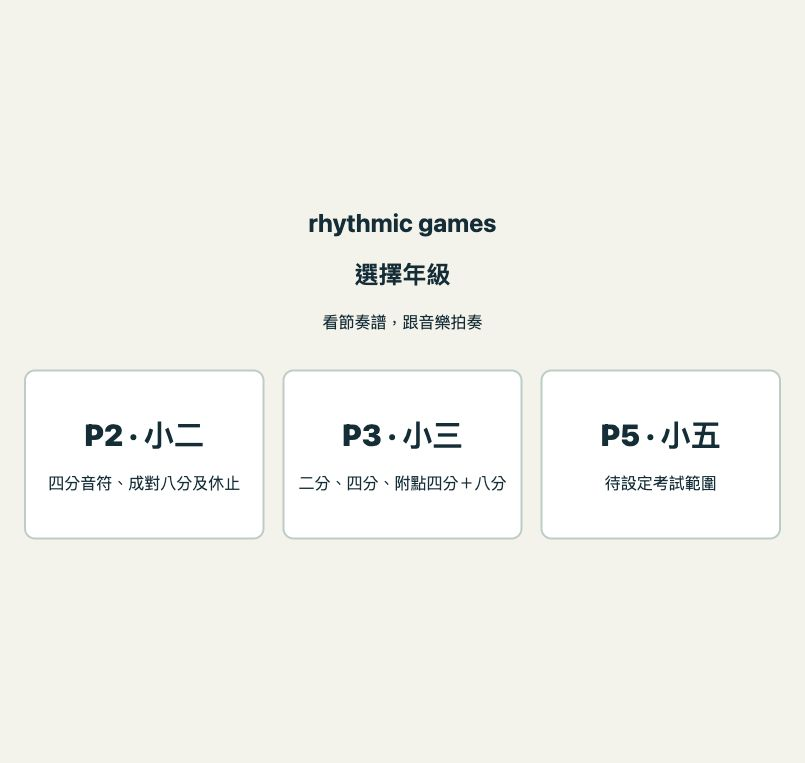
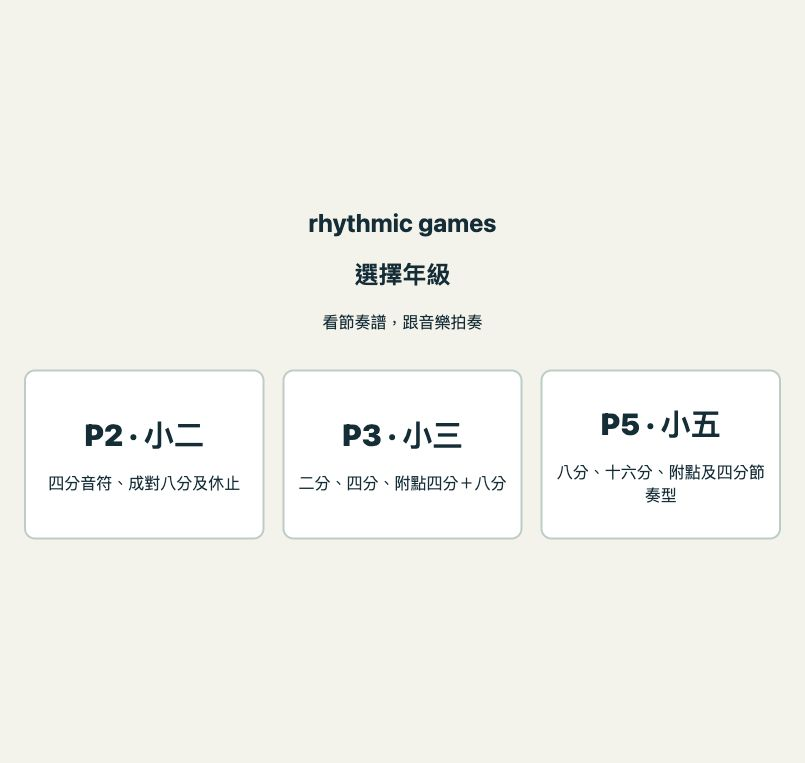
Add P5 exam rhythm groups and six progressive exercises
Enable P5 with quarter notes, paired eighths, eighth plus two sixteenths, dotted eighth plus sixteenth, and four sixteenths. Preserve P2/P3 and shared music settings. Add exact onset/duration and grade-switch tests and updated previews.

Changed region(s): [[0.6832, 0.5426, 0.9627, 0.6632]]

diff --git a/index.html b/index.html
@@ -2,10 +2,8 @@
 <html lang="zh-Hant"><meta charset="utf-8"><meta name="viewport" content="width=device-width,initial-scale=1"><title>rhythmic games · 節奏拍奏</title>
 <style>
 [hidden]{display:none!important}.grade-home{min-height:100dvh;max-width:1050px;margin:auto;padding:40px 24px;display:flex;flex-direction:column;align-items:center;justify-content:center;gap:20px}.grade-home h2,.grade-home p{margin:0}.grade-choices{display:grid;grid-template-columns:repeat(3,1fr);gap:18px;width:100%;margin:16px 0}.grade-choices button{min-height:170px;text-align:center;display:flex;flex-direction:column;align-items:center;justify-content:center;gap:16px}.grade-choices strong{font-size:30px}.grade-choices span{font-size:16px;font-weight:400}#gradePending{text-align:center}#changeGrade{font-size:14px;padding:6px 10px}.cell.wide{grid-column:span 2}.duration{position:absolute;bottom:6px;font-size:14px;color:#52646a}.cell.wide.active::after{bottom:5px;left:12px}.cell.wide .pair-symbol{max-height:150px;max-width:95%;width:95%}@media(max-width:600px){.grade-choices{grid-template-columns:1fr;gap:10px}.grade-choices button{min-height:100px}.grade-home{padding:20px}.grade-choices strong{font-size:26px}header{gap:10px}header small{display:block!important;font-size:12px}#changeGrade{font-size:12px;padding:5px}}:root{font-family:system-ui,-apple-system,sans-serif;color:#152d37;background:#f4f3eb}*{box-sizing:border-box}body{margin:0}main{max-width:1120px;margin:auto;padding:18px;height:100dvh;display:flex;flex-direction:column;gap:12px}header{display:flex;justify-content:space-between;align-items:center}h1{margin:0;font-size:28px}small,footer{font-size:14px;color:#50646c}button,select,input{font:inherit}button,select{border:2px solid #bdcdc7;border-radius:11px;padding:10px 15px;color:inherit;background:white}button{cursor:pointer;font-weight:700}button:disabled,input:disabled,select:disabled{opacity:.45;cursor:default}button:focus-visible,input:focus-visible,select:focus-visible,summary:focus-visible{outline:4px solid #e6a43d;outline-offset:2px}.controls{display:flex;align-items:center;gap:10px;flex-wrap:wrap}label{display:flex;align-items:center;gap:7px}#status{font-size:30px;font-weight:800;text-align:center;margin:0}#instruction{text-align:center;margin:0;font-size:17px}#score{flex:1;min-height:240px;display:grid;grid-template-columns:repeat(4,minmax(0,1fr));grid-template-rows:repeat(2,minmax(0,1fr));gap:14px;max-height:490px}.cell{background:white;border:4px solid #1c3036;border-radius:22px;display:flex;align-items:center;justify-content:center;position:relative;min-height:0}.cell svg{height:78%;width:90%;max-height:150px;color:#10191d}.cell.active{background:#fff0b9;border-color:#bb760b;box-shadow:0 0 0 3px #edc467}.cell.active::after{content:'●';position:absolute;bottom:3px;font-size:16px;color:#9a6006}.actions{justify-content:center}.primary{background:#176970;color:white;border-color:#176970}.settings{background:#fff;border:1px solid #d3dfd8;border-radius:12px;padding:10px 14px}.settings summary{cursor:pointer;font-weight:650}.settings[open]{max-height:34vh;overflow:auto}.settings .controls{margin-top:10px}.settings input[type=number]{width:100px;padding:7px;border:1px solid #a6bbb2;border-radius:7px}.settings input[type=range]{width:120px}#custom[hidden],#builtin[hidden]{display:none}#file{max-width:290px}#fileInfo{font-size:14px;margin:8px 0;overflow-wrap:anywhere}#message{min-height:20px;margin:0;font-size:15px;color:#8c361f}footer{text-align:center;margin-top:auto}@media(max-height:820px){main{gap:8px;padding:12px}h1{font-size:25px}#status{font-size:26px}#score{gap:10px;min-height:210px}.cell{border-radius:18px}button,select{padding:8px 12px}}@media(max-width:600px){main{height:auto;min-height:100dvh;padding:10px}header small{display:none}h1{font-size:24px}.controls{gap:7px;font-size:14px}#score{height:300px;flex:none;gap:7px}.cell{border-width:3px;border-radius:14px}#status{font-size:25px}footer{font-size:12px}.settings[open]{max-height:none}}
-#status{border-radius:14px;padding:6px 10px;transition:background .15s}#status[data-phase=count]{background:#e3edf9;color:#14406b}#status[data-phase=guided]{background:#dff1e4;color:#165a2c}#status[data-phase=independent]{background:#fde7cf;color:#7a3a05}#status[data-phase=done]{background:#ecebe4}.keys{font-size:13px;color:#50646c;margin:4px 0 0}kbd{border:1px solid #a6bbb2;border-bottom-width:2px;border-radius:5px;padding:0 5px;font:inherit;background:#fff}#calibrate.tapping{background:#e6a43d;border-color:#bb760b;color:#1d1300}
-body.projector main{max-width:none;padding:2vh 2.5vw;gap:1.5vh}body.projector header small>*:not(#projector),body.projector #settings,body.projector footer,body.projector #message:empty,body.projector .controls:not(.actions){display:none!important}body.projector h1{font-size:2.2vh;opacity:.6}body.projector #status{font-size:clamp(28px,6vh,72px);padding:1vh 2vw}body.projector #instruction{font-size:clamp(18px,2.8vh,34px)}body.projector #score{max-height:none;gap:2vh}body.projector .cell{border-width:6px;border-color:#000}body.projector .cell svg{max-height:none;color:#000}body.projector .cell.active{background:#ffd84a;border-color:#8a4b00;box-shadow:0 0 0 8px #8a4b00}body.projector .actions button{font-size:clamp(16px,2.2vh,26px)}body.projector .duration{font-size:clamp(14px,2vh,24px);color:#000}
 </style>
-<section id="gradeHome" class="grade-home"><h1>rhythmic games</h1><h2>選擇年級</h2><p>看節奏譜，跟音樂拍奏</p><div class="grade-choices"><button id="chooseP2"><strong>P2 · 小二</strong><span>四分音符、成對八分及休止</span></button><button id="chooseP3"><strong>P3 · 小三</strong><span>二分、四分、附點四分＋八分</span></button><button id="chooseP5"><strong>P5 · 小五</strong><span>八分、十六分、附點八分＋十六分</span></button></div><div id="gradePending" hidden role="status"><p>P5 題庫待設定，請提供考試節奏範圍。</p><button id="backHome">返回年級選擇</button></div></section><main id="game" hidden><header><h1>rhythmic games</h1><small><span id="gradeLabel">音樂讀譜拍奏</span> <button id="projector" aria-pressed="false" title="全螢幕投影模式（F）">投影模式</button> <button id="changeGrade">更換年級</button></small></header>
+<section id="gradeHome" class="grade-home"><h1>rhythmic games</h1><h2>選擇年級</h2><p>看節奏譜，跟音樂拍奏</p><div class="grade-choices"><button id="chooseP2"><strong>P2 · 小二</strong><span>四分音符、成對八分及休止</span></button><button id="chooseP3"><strong>P3 · 小三</strong><span>二分、四分、附點四分＋八分</span></button><button id="chooseP5"><strong>P5 · 小五</strong><span>八分、十六分、附點及四分節奏型</span></button></div><div id="gradePending" hidden role="status"><p>P5 題庫待設定，請提供考試節奏範圍。</p><button id="backHome">返回年級選擇</button></div></section><main id="game" hidden><header><h1>rhythmic games</h1><small><span id="gradeLabel">音樂讀譜拍奏</span> <button id="changeGrade">更換年級</button></small></header>
 <div class="controls"><label>題目 <select id="question"></select></label><label>音樂 <select id="source"><option value="builtin">內建伴奏</option><option value="custom">自選音樂</option></select></label><span id="tempo">80 BPM</span></div>
 <p id="status" role="status" tabindex="-1">先看譜，準備好才開始</p><p id="instruction">先跟着拍一次，再跟音樂自己拍一次。</p>
 <div id="score" aria-label="八拍節奏譜，先讀上行四拍，再讀下行四拍"></div>
@@ -13,29 +11,27 @@ body.projector main{max-width:none;padding:2vh 2.5vw;gap:1.5vh}body.projector he
 <details id="settings" class="settings"><summary>教師音樂設定</summary>
 <div id="builtin" class="controls"><label>伴奏速度 <select id="builtinBpm"><option>60</option><option selected>80</option><option>100</option></select></label></div>
 <div id="custom" hidden><div class="controls"><label>音樂檔 <input id="file" type="file" accept=".mp3,.m4a,.wav,audio/*"></label><label>BPM <input id="customBpm" type="number" min="40" max="160" step="0.1" placeholder="40–160"></label><label>第一拍（秒） <input id="offset" type="number" min="0" step="0.01" placeholder="例如 0.35"></label><button id="preview">對拍試聽・8拍</button></div><p id="fileInfo">載入速度穩定的音樂，再設定 BPM 和第一拍位置。</p><small>試聽時調整拍子聲與音樂是否吻合；正式練習需要第一拍之後至少十六拍音樂。檔案只在本機處理。</small></div>
-<div class="controls"><label>伴奏音量 <input id="musicVolume" type="range" min="0" max="100" value="45"><output id="musicValue">45%</output></label><label>示範音量 <input id="demoVolume" type="range" min="0" max="100" value="65"><output id="demoValue">65%</output></label></div>
-<div class="controls"><label>聲畫延遲 <input id="latency" type="range" min="0" max="400" step="5" value="0"><output id="latencyValue">0 ms</output></label><button id="calibrate">拍手校正</button></div><small id="calibInfo">用投影喇叭或藍牙時，亮格可能比聲音早。按「拍手校正」後，聽到拍子聲就按空白鍵或此按鈕，共 12 下；結果只保存在此裝置。</small></details>
-<p id="message" role="alert"></p><p class="keys"><kbd>空白鍵</kbd> 開始／停止 · <kbd>→</kbd><kbd>PgDn</kbd> 下一題 · <kbd>←</kbd><kbd>PgUp</kbd> 上一題 · <kbd>R</kbd> 再練一次 · <kbd>F</kbd> 投影模式（簡報筆可用）</p><footer>原創複習練習 · 休止保留一拍 · 由教師觀察拍奏表現，不自動評分。</footer></main>
+<div class="controls"><label>伴奏音量 <input id="musicVolume" type="range" min="0" max="100" value="45"><output id="musicValue">45%</output></label><label>示範音量 <input id="demoVolume" type="range" min="0" max="100" value="65"><output id="demoValue">65%</output></label></div></details>
+<p id="message" role="alert"></p><footer>原創複習練習 · 休止保留一拍 · 由教師觀察拍奏表現，不自動評分。</footer></main>
 <script>
 'use strict';
 const $=id=>document.getElementById(id);
 const PATTERNS=[['ta','ta','ta','ta','ta','ta','ta','ta'],['ta','rest','ta','rest','ta','rest','ta','rest'],['ta','ti','ta','ti','ta','ti','ta','ti'],['ti','ta','ti','ta','ti','ta','ti','ta'],['ta','ti','ta','rest','ta','ti','ta','rest'],['ti','ta','rest','ti','ta','rest','ti','ta']].map((cells,i)=>({id:i+1,cells,beats:8,events:cells.flatMap((kind,b)=>kind==='ti'?[{startBeat:b,durationBeats:.5,kind:'note'},{startBeat:b+.5,durationBeats:.5,kind:'note'}]:[{startBeat:b,durationBeats:1,kind:kind==='rest'?'rest':'note'}])}));
-function makePattern(cells,id){let offset=0;const segments=cells.map(kind=>{const span=kind==='half'||kind==='dottedPair'?2:1,segment={kind,startBeat:offset,durationBeats:span};offset+=span;return segment});return {id,cells,beats:offset,segments,events:segments.flatMap(s=>{const on=ONSETS[s.kind];return on?on.map((o,i)=>({startBeat:s.startBeat+o,durationBeats:(on[i+1]??s.durationBeats)-o,kind:'note'})):[{startBeat:s.startBeat,durationBeats:s.durationBeats,kind:s.kind==='rest'?'rest':'note'}]})}}
-const ONSETS={ti:[0,.5],dottedPair:[0,1.5],titiri:[0,.5,.75],tim:[0,.75],tiri:[0,.25,.5,.75]};
+function makePattern(cells,id){let offset=0;const segments=cells.map(kind=>{const span=kind==='half'||kind==='dottedPair'?2:1,segment={kind,startBeat:offset,durationBeats:span};offset+=span;return segment});return {id,cells,beats:offset,segments,events:segments.flatMap(s=>s.kind==='eighthSixteenths'?[{startBeat:s.startBeat,durationBeats:.5,kind:'note'},{startBeat:s.startBeat+.5,durationBeats:.25,kind:'note'},{startBeat:s.startBeat+.75,durationBeats:.25,kind:'note'}]:s.kind==='dottedEighth'?[{startBeat:s.startBeat,durationBeats:.75,kind:'note'},{startBeat:s.startBeat+.75,durationBeats:.25,kind:'note'}]:s.kind==='fourSixteenths'?[0,.25,.5,.75].map(b=>({startBeat:s.startBeat+b,durationBeats:.25,kind:'note'})):s.kind==='dottedPair'?[{startBeat:s.startBeat,durationBeats:1.5,kind:'note'},{startBeat:s.startBeat+1.5,durationBeats:.5,kind:'note'}]:s.kind==='ti'?[{startBeat:s.startBeat,durationBeats:.5,kind:'note'},{startBeat:s.startBeat+.5,durationBeats:.5,kind:'note'}]:[{startBeat:s.startBeat,durationBeats:s.durationBeats,kind:s.kind==='rest'?'rest':'note'}])}}
 const P2=PATTERNS.map(p=>makePattern(p.cells,p.id));
 const P3=[['half','half','half','half'],['ta','ta','half','ta','ta','half'],['dottedPair','half','dottedPair','half'],['ta','ta','dottedPair','half','ta','ta'],['half','dottedPair','ta','ta','dottedPair'],['dottedPair','dottedPair','half','dottedPair']].map((cells,i)=>makePattern(cells,i+1));
-const P5=[['ti','tiri','ti','ta','ti','tiri','ti','ta'],['ta','titiri','ta','titiri','ti','titiri','ta','ta'],['tim','ta','tim','ta','ti','tim','ti','ta'],['ti','titiri','tiri','ta','ti','titiri','tiri','ta'],['tiri','tim','titiri','ta','tiri','tim','ti','ta'],['titiri','tim','tiri','ti','tim','titiri','tiri','ta']].map((cells,i)=>makePattern(cells,i+1));
+const P5=[['ta','ti','ta','ti','ta','ti','ta','ti'],['eighthSixteenths','ta','eighthSixteenths','ta','eighthSixteenths','ta','eighthSixteenths','ta'],['dottedEighth','ta','dottedEighth','ta','dottedEighth','ta','dottedEighth','ta'],['fourSixteenths','ta','fourSixteenths','ta','fourSixteenths','ta','fourSixteenths','ta'],['eighthSixteenths','ti','dottedEighth','ta','eighthSixteenths','ti','dottedEighth','ta'],['eighthSixteenths','fourSixteenths','dottedEighth','ti','ta','dottedEighth','fourSixteenths','ta']].map((cells,i)=>makePattern(cells,i+1));
 const GRADES={P2:{label:'P2 · 小二',patterns:P2},P3:{label:'P3 · 小三',patterns:P3},P5:{label:'P5 · 小五',patterns:P5}};let grade=null;
 function library(){return grade?GRADES[grade].patterns:[]}
 function selectGrade(value){stop();grade=value;$('message').textContent='';const pending=library().length===0;$('gradeHome').hidden=!pending;$('game').hidden=pending;$('gradePending').hidden=!pending;document.querySelector('.grade-choices').hidden=pending;$('gradeLabel').textContent=GRADES[value].label;$('question').innerHTML='';library().forEach(p=>$('question').add(new Option(`第 ${p.id} 題`,p.id)));$('question').selectedIndex=0;if(!pending){render();$('status').textContent='先看譜，準備好才開始';$('status').focus()}updateTempo()}
 function goHome(){stop();grade=null;$('game').hidden=true;$('gradeHome').hidden=false;$('gradePending').hidden=true;document.querySelector('.grade-choices').hidden=false}
 let ctx,musicBus,demoBus,cueBus,noiseBuffer,audioBuffer=null,run=null,raf=0,serial=0,loadSerial=0,loading=false;const voices=new Set();
-function glyph(k){if(k==='half')return '<svg viewBox="0 0 110 90" aria-hidden="true"><ellipse cx="50" cy="61" rx="11" ry="8" transform="rotate(-18 50 61)" fill="white" stroke="currentColor" stroke-width="3"/><path d="M60 60V13" stroke="currentColor" stroke-width="4"/></svg>';if(k==='dottedPair')return '<svg class="pair-symbol" viewBox="0 0 220 90" fill="currentColor" aria-hidden="true"><ellipse cx="42" cy="61" rx="11" ry="8" transform="rotate(-18 42 61)"/><path d="M52 60V13" stroke="currentColor" stroke-width="4"/><circle cx="65" cy="59" r="4"/><ellipse cx="172" cy="61" rx="11" ry="8" transform="rotate(-18 172 61)"/><path d="M182 60V13" stroke="currentColor" stroke-width="4"/><path d="M182 13C180 26 208 25 192 49C201 29 180 31 182 13Z"/></svg>';const note=x=>`<ellipse cx="${x}" cy="61" rx="11" ry="8" transform="rotate(-18 ${x} 61)"/><path d="M${x+10} 60V13" stroke="currentColor" stroke-width="4"/>`;const beam=(a,b,y)=>`<path d="M${a} ${y}H${b}" stroke="currentColor" stroke-width="7"/>`;if(k==='titiri')return `<svg viewBox="0 0 110 90" aria-hidden="true" fill="currentColor">${note(22)+note(55)+note(88)+beam(31,99,13)+beam(64,99,25)}</svg>`;if(k==='tim')return `<svg viewBox="0 0 110 90" aria-hidden="true" fill="currentColor">${note(26)+note(80)+'<circle cx="43" cy="59" r="4"/>'+beam(35,91,13)+beam(76,91,25)}</svg>`;if(k==='tiri')return `<svg viewBox="0 0 110 90" aria-hidden="true" fill="currentColor">${note(14)+note(39)+note(64)+note(89)+beam(23,100,13)+beam(23,100,25)}</svg>`;return `<svg viewBox="0 0 110 90" aria-hidden="true" fill="currentColor">${k==='rest'?'<path d="M58 6L44 27L61 42L48 56Q73 52 55 79Q82 54 62 48L73 36L54 22L65 8Z"/>':k==='ti'?note(29)+note(73)+'<path d="M39 13H83" stroke="currentColor" stroke-width="7"/>':note(50)}</svg>`}
+function glyph(k){if(['eighthSixteenths','dottedEighth','fourSixteenths'].includes(k)){let xs=k==='fourSixteenths'?[15,40,65,90]:k==='eighthSixteenths'?[18,52,86]:[25,82],radius=k==='fourSixteenths'?7:9,stem=radius-1,heads=xs.map(x=>`<ellipse cx="${x}" cy="61" rx="${radius}" ry="6" transform="rotate(-18 ${x} 61)"/><path d="M${x+stem} 60V13" stroke="currentColor" stroke-width="3"/>`).join(''),secondaryStart=k==='fourSixteenths'?xs[0]+stem:k==='eighthSixteenths'?xs[1]+stem:xs[1]+stem-13;return `<svg viewBox="0 0 110 90" aria-hidden="true" fill="currentColor">${heads}<path d="M${xs[0]+stem} 13H${xs.at(-1)+stem}M${secondaryStart} 23H${xs.at(-1)+stem}" stroke="currentColor" stroke-width="5"/>${k==='dottedEighth'?'<circle cx="43" cy="59" r="3.5"/>':''}</svg>`}if(k==='half')return '<svg viewBox="0 0 110 90" aria-hidden="true"><ellipse cx="50" cy="61" rx="11" ry="8" transform="rotate(-18 50 61)" fill="white" stroke="currentColor" stroke-width="3"/><path d="M60 60V13" stroke="currentColor" stroke-width="4"/></svg>';if(k==='dottedPair')return '<svg class="pair-symbol" viewBox="0 0 220 90" fill="currentColor" aria-hidden="true"><ellipse cx="42" cy="61" rx="11" ry="8" transform="rotate(-18 42 61)"/><path d="M52 60V13" stroke="currentColor" stroke-width="4"/><circle cx="65" cy="59" r="4"/><ellipse cx="172" cy="61" rx="11" ry="8" transform="rotate(-18 172 61)"/><path d="M182 60V13" stroke="currentColor" stroke-width="4"/><path d="M182 13C180 26 208 25 192 49C201 29 180 31 182 13Z"/></svg>';const note=x=>`<ellipse cx="${x}" cy="61" rx="11" ry="8" transform="rotate(-18 ${x} 61)"/><path d="M${x+10} 60V13" stroke="currentColor" stroke-width="4"/>`;return `<svg viewBox="0 0 110 90" aria-hidden="true" fill="currentColor">${k==='rest'?'<path d="M58 6L44 27L61 42L48 56Q73 52 55 79Q82 54 62 48L73 36L54 22L65 8Z"/>':k==='ti'?note(29)+note(73)+'<path d="M39 13H83" stroke="currentColor" stroke-width="7"/>':note(50)}</svg>`}
 function pattern(){return library()[$('question').selectedIndex]}
-function render(){const p=pattern();$('score').innerHTML=p?p.segments.map(s=>`<div class="cell ${s.durationBeats===2?'wide':''}" aria-label="第 ${s.startBeat+1} 拍起：${({ta:'四分音符，一拍',ti:'兩個八分音符，共一拍',rest:'四分休止符，一拍',half:'二分音符，兩拍，只拍一次',dottedPair:'附點四分音符接八分音符，共兩拍',titiri:'八分音符接兩個十六分音符，共一拍',tim:'附點八分音符接十六分音符，共一拍',tiri:'四個十六分音符，共一拍'})[s.kind]}">${glyph(s.kind)}${s.durationBeats===2?`<span class="duration">${s.kind==='half'?'2 拍 · 只拍一下':'1½ 拍 ＋ ½ 拍'}</span>`:''}</div>`).join(''):''}
+function render(){const p=pattern();$('score').innerHTML=p?p.segments.map(s=>`<div class="cell ${s.durationBeats===2?'wide':''}" aria-label="第 ${s.startBeat+1} 拍起：${({ta:'四分音符，一拍',ti:'兩個八分音符，共一拍',rest:'四分休止符，一拍',half:'二分音符，兩拍，只拍一次',dottedPair:'附點四分音符接八分音符，共兩拍',eighthSixteenths:'一個八分接兩個十六分音符，共一拍',dottedEighth:'附點八分接十六分音符，共一拍',fourSixteenths:'四個十六分音符，共一拍'})[s.kind]}">${glyph(s.kind)}${s.durationBeats===2?`<span class="duration">${s.kind==='half'?'2 拍 · 只拍一下':'1½ 拍 ＋ ½ 拍'}</span>`:''}</div>`).join(''):''}
 function bpm(){return Number($('source').value==='builtin'?$('builtinBpm').value:$('customBpm').value)}
 function updateTempo(){const n=bpm();$('tempo').textContent=Number.isFinite(n)&&n>0?`${n} BPM`:'先設定速度'}
-function lock(v){for(const id of ['latency','calibrate','question','source','builtinBpm','customBpm','offset','file','musicVolume','demoVolume','start','repeat','next','preview'])$(id).disabled=v||loading;$('stop').disabled=!v}
+function lock(v){for(const id of ['question','source','builtinBpm','customBpm','offset','file','musicVolume','demoVolume','start','repeat','next','preview'])$(id).disabled=v||loading;$('stop').disabled=!v}
 async function audioReady(){if(!ctx){ctx=new(window.AudioContext||window.webkitAudioContext)();musicBus=ctx.createGain();demoBus=ctx.createGain();cueBus=ctx.createGain();for(const b of [musicBus,demoBus,cueBus])b.connect(ctx.destination);musicBus.gain.value=Number($('musicVolume').value)/100;demoBus.gain.value=Number($('demoVolume').value)/100;cueBus.gain.value=.32;noiseBuffer=ctx.createBuffer(1,Math.ceil(ctx.sampleRate*.12),ctx.sampleRate);let data=noiseBuffer.getChannelData(0);let seed=32;for(let i=0;i<data.length;i++){seed=(seed*16807)%2147483647;data[i]=seed/1073741824-1}ctx.onstatechange=()=>{if(run&&ctx.state!=='running')stop('音訊已中斷，按開始重新預備。')}}await ctx.resume();if(ctx.state!=='running')throw Error('聲音未能啟動，請再按開始。')}
 function track(node){voices.add(node);node.onended=()=>voices.delete(node);return node}
 function tone(at,hz,duration,amp,bus,type='sine',endHz=null){let o=track(ctx.createOscillator()),g=ctx.createGain();o.type=type;o.frequency.setValueAtTime(hz,at);if(endHz)o.frequency.exponentialRampToValueAtTime(endHz,at+Math.min(duration,.12));g.gain.setValueAtTime(.0001,at);g.gain.exponentialRampToValueAtTime(amp,at+.006);g.gain.exponentialRampToValueAtTime(.0001,at+duration);o.connect(g).connect(bus);o.start(at);o.stop(at+duration+.01)}
@@ -45,30 +41,10 @@ function timeline(p,spb,custom=false,preview=false){let events=[];if(!preview)fo
 if(!preview)p.events.filter(e=>e.kind==='note').forEach(e=>events.push({beat:4+e.startBeat,type:'demo'}));return events.map(e=>({...e,time:e.beat*spb,done:false})).sort((a,b)=>a.time-b.time)}
 function validate(custom,beats){let n=bpm();if(!Number.isFinite(n)||n<40||n>160)throw Error('請設定 40–160 之間的 BPM。');let offset=Number($('offset').value);if(custom){if(loading)throw Error('音樂仍在載入，請稍候。');if(!audioBuffer)throw Error('請先載入音樂檔。');if(!$('customBpm').value||!$('offset').value||!Number.isFinite(offset)||offset<0)throw Error('請設定 BPM 及第一拍時間（可填 0）。');if(audioBuffer.duration-offset+1e-7<beats*60/n)throw Error(`第一拍之後不足 ${beats} 拍音樂，請調整第一拍位置或更換檔案。`)}return {spb:60/n,offset}}
 function clearHighlight(){document.querySelectorAll('.cell').forEach(c=>c.classList.remove('active'))}
-function stop(message='已停止 · 按開始重新預備'){serial++;cancelAnimationFrame(raf);run=null;voices.forEach(n=>{try{n.stop()}catch{}});voices.clear();clearHighlight();lock(false);setPhase(message.startsWith('完成')?'done':'');$('status').textContent=message;$('instruction').textContent='先跟着拍一次，再跟音樂自己拍一次。'}
+function stop(message='已停止 · 按開始重新預備'){serial++;cancelAnimationFrame(raf);run=null;voices.forEach(n=>{try{n.stop()}catch{}});voices.clear();clearHighlight();lock(false);$('status').textContent=message;$('instruction').textContent='先跟着拍一次，再跟音樂自己拍一次。'}
 async function begin(preview=false){if(!pattern())return;stop();updateTempo();$('message').textContent='';const token=serial,custom=$('source').value==='custom';try{if(preview&&!custom)throw Error('對拍試聽只適用於自選音樂。');const cfg=validate(custom,preview?8:16);lock(true);await audioReady();if(token!==serial)return;const origin=ctx.currentTime+.15;run={pattern:pattern(),origin,spb:cfg.spb,preview,end:preview?8:20,events:timeline(pattern(),cfg.spb,custom,preview)};if(custom){let node=track(ctx.createBufferSource());node.buffer=audioBuffer;node.connect(musicBus);node.start(origin+(preview?0:4*cfg.spb),cfg.offset,(preview?8:16)*cfg.spb)}$('settings').open=false;frame()}catch(e){if(token!==serial)return;stop('尚未開始');$('message').textContent=e.message||'未能播放音樂，請重新載入。';$('settings').open=custom}}
 function phase(t,preview=false){t+=1e-7;return preview?'preview':t<0?'ready':t<4?'count':t<12?'guided':t<20?'independent':'done'}
-function frame(){if(!run)return;let r=run,t=(ctx.currentTime-r.origin-latency())/r.spb,now=ctx.currentTime;for(let e of r.events){if(e.done)continue;if(e.time<=now-r.origin+.12){e.done=true;if(e.time>=now-r.origin-.025)emit(e,Math.max(now,r.origin+e.time),r.spb)}}let state=phase(t,r.preview);setPhase(state);$('status').textContent=state==='preview'?'對拍試聽 · 聽拍子聲是否對齊音樂':state==='ready'?'準備':state==='count'?`預備拍 ${Math.floor(t)+1} / 4`:state==='guided'?'跟着拍 · 第一遍':'自己拍 · 第二遍';$('instruction').textContent=state==='independent'?'跟音樂看譜拍奏；休止也保留一拍。':state==='preview'?'若拍子未對齊，停止後調整 BPM 或第一拍位置。':(grade==='P5'?'先讀上行，再讀下行；每格一拍，十六分音符要快而平均。':grade==='P3'?'先讀上行，再讀下行；二分拍一下，附點組合先長後短。':'先讀上行，再讀下行；ti-ti 均分一拍。');document.querySelectorAll('.cell').forEach((c,i)=>c.classList.toggle('active',(state==='guided'||state==='independent')&&((t-4+1e-7)%8)>=r.pattern.segments[i].startBeat&&((t-4+1e-7)%8)<r.pattern.segments[i].startBeat+r.pattern.segments[i].durationBeats));if(t+1e-7>=r.end){stop(r.preview?'試聽完成 · 可調整對拍設定':'完成 · 再練一次或下一題');return}raf=requestAnimationFrame(frame)}
+function frame(){if(!run)return;let r=run,t=(ctx.currentTime-r.origin)/r.spb,now=ctx.currentTime;for(let e of r.events){if(e.done)continue;if(e.time<=now-r.origin+.12){e.done=true;if(e.time>=now-r.origin-.025)emit(e,Math.max(now,r.origin+e.time),r.spb)}}let state=phase(t,r.preview);$('status').textContent=state==='preview'?'對拍試聽 · 聽拍子聲是否對齊音樂':state==='ready'?'準備':state==='count'?`預備拍 ${Math.floor(t)+1} / 4`:state==='guided'?'跟着拍 · 第一遍':'自己拍 · 第二遍';$('instruction').textContent=state==='independent'?'跟音樂看譜拍奏；休止也保留一拍。':state==='preview'?'若拍子未對齊，停止後調整 BPM 或第一拍位置。':(grade==='P3'?'先讀上行，再讀下行；二分拍一下，附點組合先長後短。':grade==='P5'?'先讀上行，再讀下行；留意一拍內的長短和均分。':'先讀上行，再讀下行；ti-ti 均分一拍。');document.querySelectorAll('.cell').forEach((c,i)=>c.classList.toggle('active',(state==='guided'||state==='independent')&&((t-4+1e-7)%8)>=r.pattern.segments[i].startBeat&&((t-4+1e-7)%8)<r.pattern.segments[i].startBeat+r.pattern.segments[i].durationBeats));if(t+1e-7>=r.end){stop(r.preview?'試聽完成 · 可調整對拍設定':'完成 · 再練一次或下一題');return}raf=requestAnimationFrame(frame)}
 async function loadFile(){stop('正在載入音樂…');let id=++loadSerial,file=$('file').files[0];audioBuffer=null;$('customBpm').value='';$('offset').value='';updateTempo();$('message').textContent='';$('fileInfo').textContent='';if(!file){$('status').textContent='先看譜，準備好才開始';return}loading=true;lock(false);try{await audioReady();const bytes=await file.arrayBuffer();let buffer=await ctx.decodeAudioData(bytes);if(id!==loadSerial)return;audioBuffer=buffer;$('fileInfo').textContent=`${file.name} · ${buffer.duration.toFixed(2)} 秒；請重新設定 BPM 和第一拍位置。`;$('status').textContent='音樂已載入 · 請設定並試聽'}catch(e){if(id!==loadSerial)return;$('message').textContent='無法解碼這個音樂檔，請改用瀏覽器支援的 MP3、M4A 或 WAV。';$('status').textContent='音樂未能載入'}finally{if(id===loadSerial){loading=false;lock(false)}}}
 $('start').onclick=()=>begin();$('repeat').onclick=()=>begin();$('stop').onclick=()=>stop();$('preview').onclick=()=>begin(true);$('next').onclick=()=>{stop('先看譜，準備好才開始');$('question').selectedIndex=($('question').selectedIndex+1)%library().length;render()};$('question').onchange=()=>{stop('先看譜，準備好才開始');render()};$('source').onchange=()=>{stop('先看譜，準備好才開始');const custom=$('source').value==='custom';$('custom').hidden=!custom;$('builtin').hidden=custom;$('settings').open=custom;updateTempo()};$('file').onchange=loadFile;$('customBpm').oninput=updateTempo;for(let id of ['builtinBpm','customBpm','offset'])$(id).onchange=()=>{stop('設定已更新 · 按開始重新預備');updateTempo()};for(let [id,bus,label] of [['musicVolume',()=>musicBus,'musicValue'],['demoVolume',()=>demoBus,'demoValue']])$(id).oninput=()=>{$(label).textContent=$(id).value+'%';if(bus())bus().gain.value=Number($(id).value)/100};document.addEventListener('visibilitychange',()=>{if(document.hidden)stop('已停止 · 返回後按開始重新預備')});window.addEventListener('pagehide',()=>stop());for(const key of ['P2','P3','P5'])$('choose'+key).onclick=()=>selectGrade(key);$('changeGrade').onclick=goHome;$('backHome').onclick=goHome;updateTempo();
-function setPhase(v){const st=$('status');if(st.dataset)st.dataset.phase=v}
-const LATENCY_KEY='rhythmic-games.latencyMs';function latency(){return (Number($('latency').value)||0)/1000}
-function setLatency(ms,save=true){ms=Math.max(0,Math.min(400,Math.round(ms/5)*5));$('latency').value=String(ms);$('latencyValue').textContent=ms+' ms';if(save)try{localStorage.setItem(LATENCY_KEY,String(ms))}catch{}}
-try{const saved=localStorage.getItem(LATENCY_KEY);if(saved!==null)setLatency(Number(saved),false)}catch{}
-$('latency').oninput=()=>setLatency(Number($('latency').value));
-let cal=null;
-async function calibrate(){stop('拍手校正中 · 聽到拍子聲就按');try{await audioReady()}catch(e){$('message').textContent=e.message;return}const token=serial,spb=60/90,origin=ctx.currentTime+.6,count=12;cal={token,spb,taps:[],perfOrigin:performance.now()+(origin-ctx.currentTime)*1000};for(let i=0;i<count;i++)tone(origin+i*spb,i%4===0?1000:750,.08,.4,cueBus,'triangle');lock(true);$('stop').disabled=false;$('calibrate').disabled=false;$('calibrate').classList.add('tapping');$('calibrate').textContent='聽到就按';setTimeout(()=>finishCalibration(token),(origin-ctx.currentTime+count*spb+.6)*1000)}
-function calTap(){if(!cal)return;const ms=performance.now()-cal.perfOrigin,step=cal.spb*1000,i=Math.floor((ms+150)/step);if(i>=2&&i<12)cal.taps.push(ms-i*step)}
-function finishCalibration(token){if(!cal||cal.token!==token)return;const taps=cal.taps.sort((a,b)=>a-b);cal=null;$('calibrate').classList.remove('tapping');$('calibrate').textContent='拍手校正';lock(false);if(taps.length<5){$('status').textContent='校正未完成';$('message').textContent='按下的次數不足，請再試一次。';return}const median=taps[Math.floor(taps.length/2)];setLatency(median);$('status').textContent=`校正完成 · 聲畫延遲 ${$('latency').value} ms`}
-const baseStop=stop;stop=function(message){if(cal){cal=null;$('calibrate').classList.remove('tapping');$('calibrate').textContent='拍手校正'}return baseStop(message)};
-$('calibrate').onclick=()=>cal?calTap():calibrate();
-function toggleProjector(force){const on=force??!document.body.classList.contains('projector');document.body.classList.toggle('projector',on);$('projector').setAttribute('aria-pressed',String(on));$('projector').textContent=on?'離開投影':'投影模式';const fs=document.fullscreenElement||document.webkitFullscreenElement;if(on&&!fs){const el=document.documentElement,req=el.requestFullscreen||el.webkitRequestFullscreen;if(req)Promise.resolve(req.call(el)).catch(()=>{})}else if(!on&&fs){const exit=document.exitFullscreen||document.webkitExitFullscreen;if(exit)Promise.resolve(exit.call(document)).catch(()=>{})}}
-$('projector').onclick=()=>toggleProjector();
-for(const ev of ['fullscreenchange','webkitfullscreenchange'])document.addEventListener(ev,()=>{if(!(document.fullscreenElement||document.webkitFullscreenElement)&&document.body.classList.contains('projector'))toggleProjector(false)});
-function shiftQuestion(d){if(run||!library().length)return;stop('先看譜，準備好才開始');const n=library().length;$('question').selectedIndex=($('question').selectedIndex+d+n)%n;render()}
-document.addEventListener('keydown',e=>{if(e.ctrlKey||e.metaKey||e.altKey||e.repeat&&e.key!==' ')return;const tag=(e.target&&e.target.tagName)||'';if(/INPUT|SELECT|TEXTAREA/.test(tag)&&e.target.type!=='range')return;if(tag==='BUTTON'&&e.key==='Enter')return;if(cal){if(e.key===' '||e.key==='Enter'){e.preventDefault();calTap()}else if(e.key==='Escape')stop();return}if($('game').hidden)return;const k=e.key;let handled=true;
-if(k===' '||k==='Enter'||k==='.'||k==='b'||k==='B'){if(run)stop();else begin()}
-else if(k==='ArrowRight'||k==='PageDown')shiftQuestion(1);else if(k==='ArrowLeft'||k==='PageUp')shiftQuestion(-1);
-else if(k==='r'||k==='R'){if(!run)begin()}else if(k==='f'||k==='F')toggleProjector();else if(k==='Escape'&&run)stop();else handled=false;
-if(handled)e.preventDefault()});
 </script></html>

diff --git a/README.md b/README.md
@@ -9,7 +9,7 @@
 3. 第一遍有伴奏、示範鼓聲及逐拍亮格；第二遍保留伴奏及逐拍亮格，不播放節奏示範鼓聲。兩遍不中斷，不插入預備拍。
 4. 完成後按再練一次，或下一題（只換題，教師再按開始）。
 
-每格一拍；ti-ti的兩次起音都在同一格內。休止時伴奏繼續，學生安靜一拍。沒有口訣、移動提示、自動分數或掌握紀錄。教師觀察拍子是否穩定、八分是否均分及休止是否保留時間。題庫是原創元素練習，不是出版社指定節奏或已確認考題。
+每個基礎欄位一拍；P3二分與附點四分組合佔兩欄。ti-ti的兩次起音都在同一格內。休止時伴奏繼續，學生安靜一拍。沒有口訣、移動提示、自動分數或掌握紀錄。教師觀察拍子是否穩定、八分是否均分及休止是否保留時間。題庫是原創元素練習，不是出版社指定節奏或已確認考題。
 
 ## 音樂設定
 
@@ -30,7 +30,7 @@
 
 測試命令：node verify.cjs。遊戲本身不需要Node。
 
-年級選擇版：進入時先選P2／P3／P5，不自動記住上次年級。P2保留既有六題；P3另有六題；P5有六題（見下文）。第一遍及第二遍都逐拍亮格，第二遍只有背景伴奏，不播放節奏答案。GitHub專案名稱使用rhythmic-games。
+年級選擇版：進入時先選P2／P3／P5，不自動記住上次年級。P2保留既有六題；P3另有六題；P5按使用者提供的範圍另設六題。第一遍及第二遍都逐拍亮格，第二遍只有背景伴奏，不播放節奏答案。GitHub專案名稱使用rhythmic-games。
 
 
 ## P3 考試範圍與記譜
@@ -45,29 +45,25 @@ P3六題（每項代表一個節奏單位）：
 5. 二分／附點組合／四分／四分／附點組合
 6. 附點組合／附點組合／二分／附點組合
 
-以上是按考試元素編寫的練習句，不是正式試題。P3不加入相片未列明的休止、成對八分或其他音值。來源相片不包含於GitHub上傳檔案。
+以上是按考試元素編寫的練習句，不是正式試題。P3不加入相片未列明的休止、成對八分或其他音值。P5現已按另一張使用者提供的考試範圍另建題庫，見下節。來源相片不包含於GitHub上傳檔案。
 
-更換年級會停止音訊及重置題號，但保留已設定的音樂來源、BPM及本次載入音樂。兩遍仍有彩色亮格；第二遍不播示範鼓聲。測試覆蓋年級首頁、P2保留、P3兩拍分組及起音、P5題庫和切年級取消音訊。
+更換年級會停止音訊及重置題號，但保留已設定的音樂來源、BPM及本次載入音樂。兩遍仍有彩色亮格；第二遍不播示範鼓聲。測試覆蓋年級首頁、P2保留、P3兩拍分組及起音、P5節奏型時值和切年級取消音訊。
 
 
-## P5 考試範圍與記譜
+## P5 考試節奏型
 
-依2026–27五年級上學期考試範圍「節奏」部分，只用以下五種節奏型，每種佔一拍：八分接兩個十六分（起音0、½、¾拍）、成對八分、附點八分接十六分（起音0、¾拍）、四個十六分、四分音符。每題八拍，每行四拍，不加入範圍外的休止或音值。
+依使用者提供的P5範圍相片，節奏型為：八分＋兩個十六分、成對八分、附點八分＋十六分、四個十六分，以及四分音符。五種各佔一拍，不加入相片未列出的休止、二分、附點四分或其他組合。相片不隨專案上傳。
 
-P5六題（每格一拍）：
-1. 八分對／四個十六分／八分對／四分 ×2
-2. 四分／八分＋兩十六分／四分／八分＋兩十六分／八分對／八分＋兩十六分／四分／四分
-3. 附點八分＋十六分／四分／附點八分＋十六分／四分／八分對／附點八分＋十六分／八分對／四分
-4. 八分對／八分＋兩十六分／四個十六分／四分 ×2
-5. 四個十六分／附點八分＋十六分／八分＋兩十六分／四分／四個十六分／附點八分＋十六分／八分對／四分
-6. 八分＋兩十六分／附點八分＋十六分／四個十六分／八分對／附點八分＋十六分／八分＋兩十六分／四個十六分／四分
+以四分為一拍，各型起音及時值：
 
-以上是按考試元素編寫的練習句，不是正式試題。來源相片不包含於GitHub上傳檔案。
+| 型 | 相對起點 | 時值 |
+|---|---|---|
+| 四分 | 0 | 1 |
+| 成對八分 | 0、0.5 | 0.5、0.5 |
+| 八分＋兩個十六分 | 0、0.5、0.75 | 0.5、0.25、0.25 |
+| 附點八分＋十六分 | 0、0.75 | 0.75、0.25 |
+| 四個十六分 | 0、0.25、0.5、0.75 | 各0.25 |
 
-## 課室操作改進
+六題由成對八分開始，依次加入八分＋兩十六分、附點八分＋十六分、四十六分，最後兩題混合運用。每題仍是八拍、兩行各四拍。十六分使用雙連桿；八分＋兩十六分只在後兩音加第二連桿；附點八分＋十六分有附點及末音短第二連桿。第一遍播放每次起音，兩遍均每拍亮格一次，第二遍沒有答案聲。
 
-- 鍵盤／簡報筆：空白鍵、Enter、「.」或B開始／停止；→或PgDn下一題，←或PgUp上一題；R再練一次；F投影模式。輸入框內按鍵不受影響；回合中不能換題。
-- 聲畫延遲：教師設定內有0–400 ms滑桿及「拍手校正」。校正播放12下拍子聲（90 BPM），聽到就按空白鍵或按鈕，取第3–12下的中位數。亮格及階段顯示按此延遲推後，聲音排程不變。數值只存於此裝置瀏覽器（localStorage）；私密瀏覽可能不保存。
-- 投影模式：全螢幕、隱藏設定及頁腳、放大狀態文字及譜、加粗格線及高對比亮格。按Esc或「離開投影」返回。
-- 階段顯示：預備拍藍色、第一遍綠色、第二遍橙色、完成灰色。
-- 尚未驗證：真實藍牙／投影喇叭的校正結果、實體簡報筆按鍵、iPad Safari全螢幕（iPhone不支援網頁全螢幕）。
+測試新增：P5每題八拍、全部五種節奏型的起點與時值、示範只在第一遍、第二遍亮格及年級切換取消。這些是按範圍編寫的原創練習，不是正式考試節奏句。
